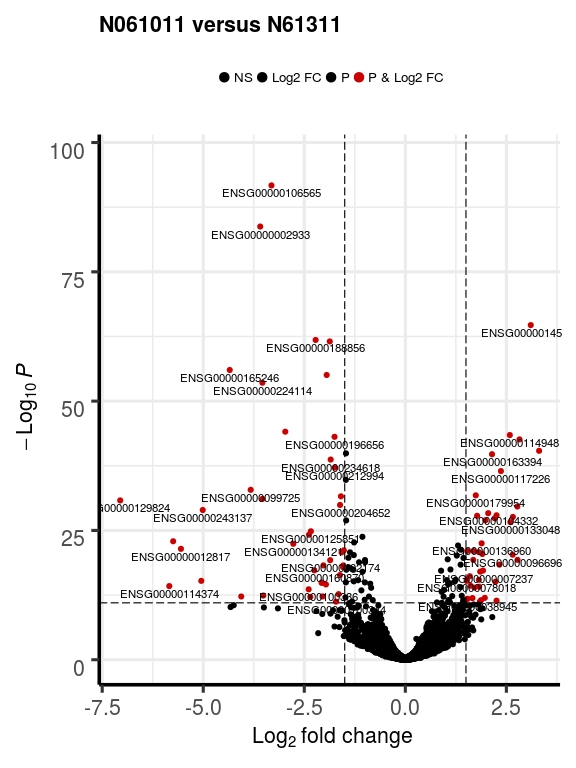
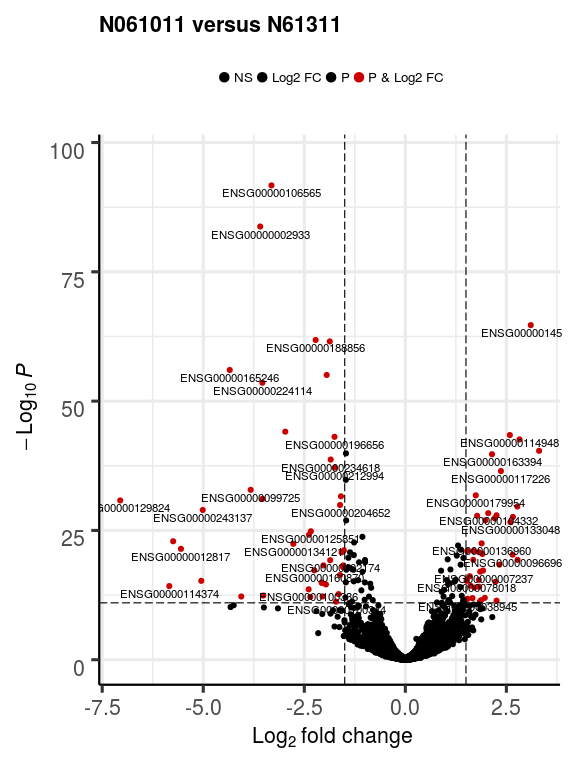
Update vignette

Changed region(s): [[0.1562, 0.1875, 0.9688, 0.9062]]

diff --git a/README.md b/README.md
@@ -1,7 +1,7 @@
 Publication-ready volcano plots with enhanced colouring and labeling
 ================
 Kevin Blighe
-2018-10-04
+2018-10-10
 
 -   [Introduction](#introduction)
 -   [Installation](#installation)
@@ -606,7 +606,7 @@ In this example, we just wish to colour all transcripts with log2FC &gt; 2 as 'h
 
         borderWidth = 1.5,
 
-        borderColour = "red4",
+        borderColour = "black",
 
         gridlines.major = TRUE,
 
@@ -656,9 +656,9 @@ In this example, we just wish to colour all transcripts with log2FC &gt; 2 as 'h
 
         border = "full",
 
-        borderWidth = 1.5,
+        borderWidth = 1.0,
 
-        borderColour = "red4",
+        borderColour = "black",
 
         gridlines.major = TRUE,
 
@@ -723,7 +723,7 @@ sessionInfo()
     ##  [9] Biobase_2.41.2              GenomicRanges_1.33.13      
     ## [11] GenomeInfoDb_1.17.1         IRanges_2.15.17            
     ## [13] S4Vectors_0.19.19           BiocGenerics_0.27.1        
-    ## [15] EnhancedVolcano_0.99.15     ggrepel_0.8.0              
+    ## [15] EnhancedVolcano_0.99.16     ggrepel_0.8.0              
     ## [17] ggplot2_3.0.0               knitr_1.20                 
     ## 
     ## loaded via a namespace (and not attached):
